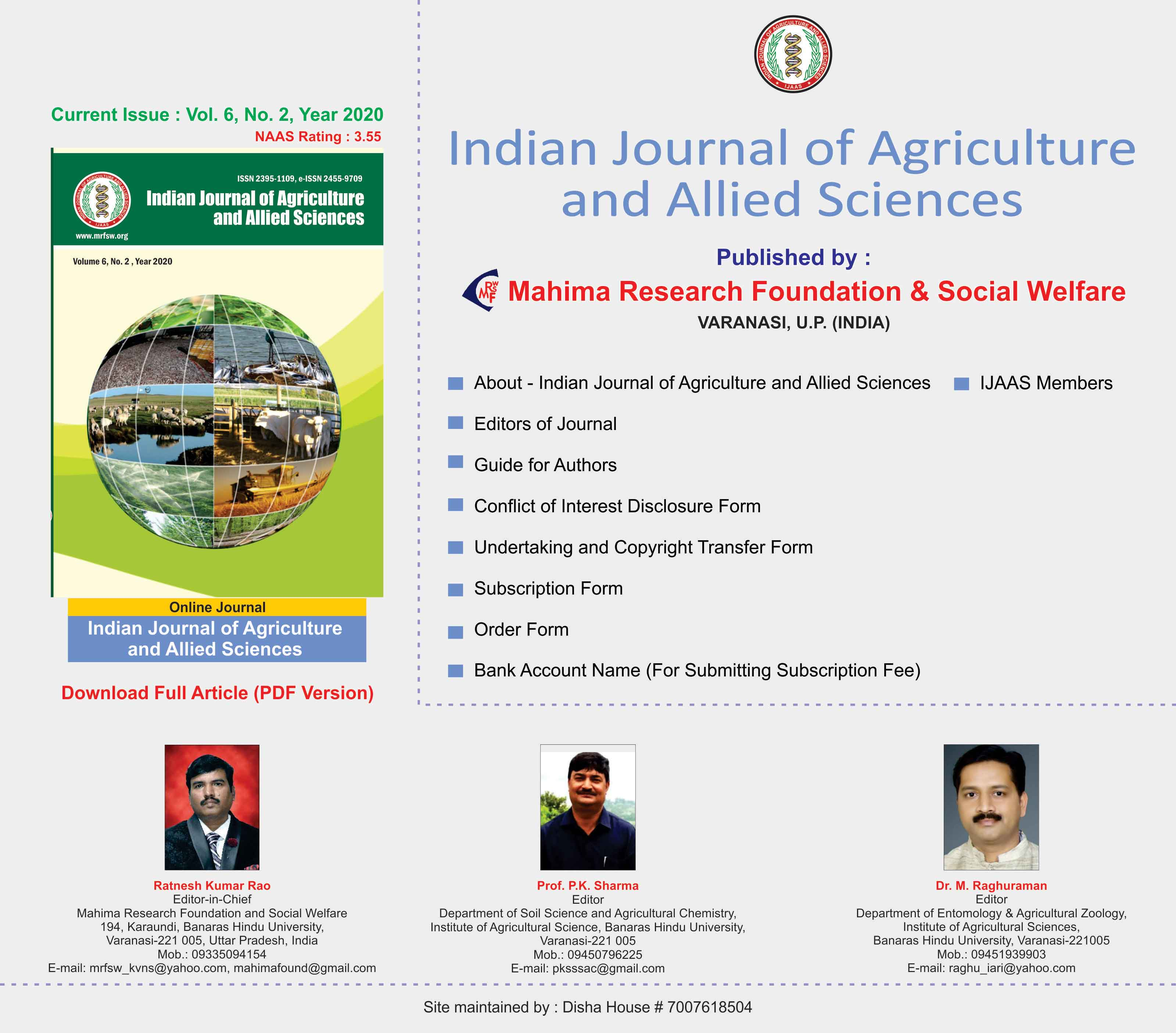
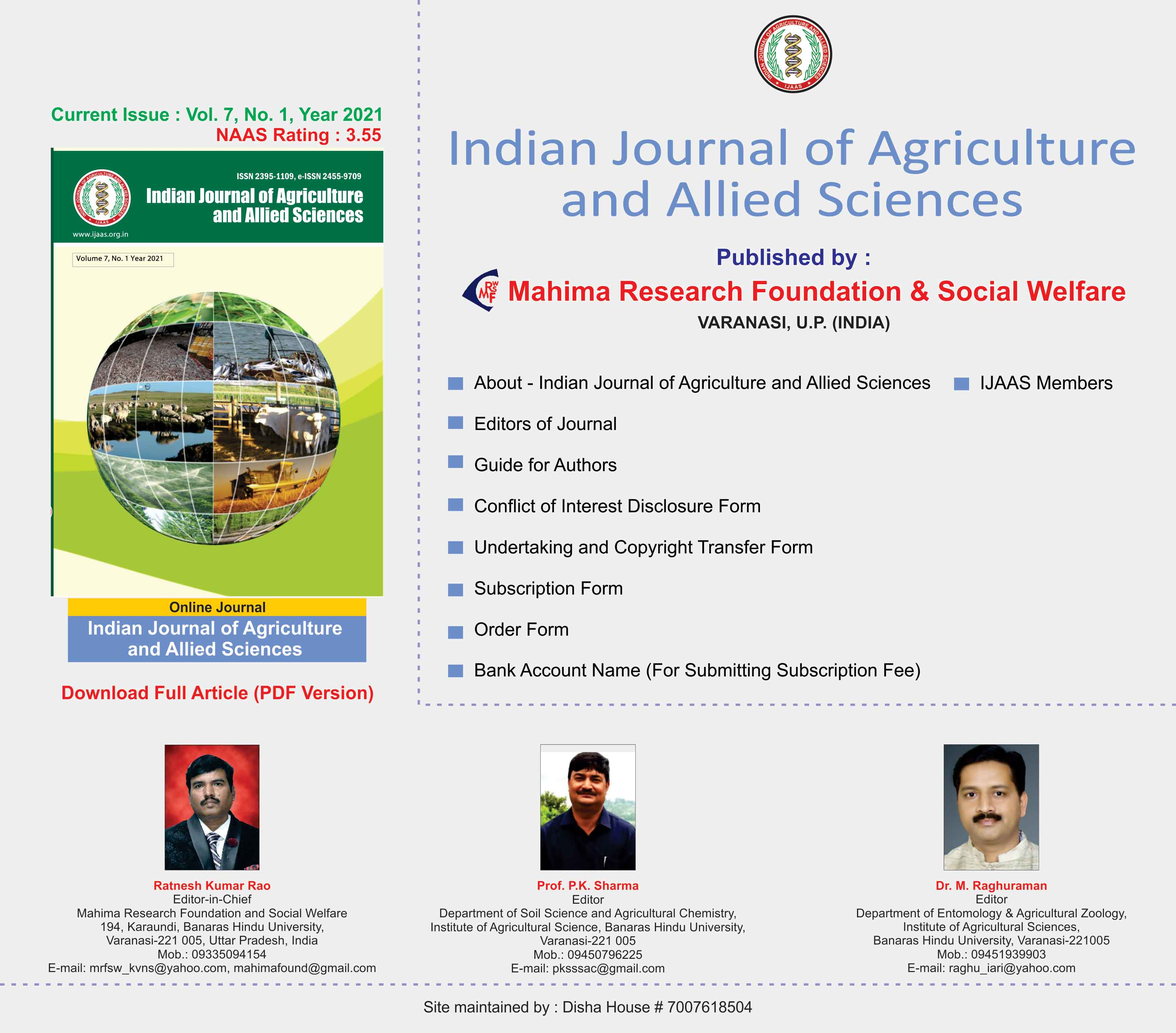
Add files via upload

Changed region(s): [[0.0312, 0.0928, 0.3438, 0.5876], [0.3125, 0.3402, 0.3438, 0.3711]]

diff --git a/editors of journal.html b/editors of journal.html
@@ -15,63 +15,57 @@
     <td style="text-align: center"><div id="Accordion1">
       <h3><a href="#"><strong>Editor-in-Chief</strong></a></h3>
       <div>
-        <p align="justify"><strong>Ratnesh Kumar Rao</strong>, 194, Karaundi, Banaras Hindu University, Varanasi-221005, UP, India, E-mail : mrfsw_kvns@yahoo.com</p>
+        <h3 align="justify" >Ratnesh Kumar Rao, 194, Karaundi, Banaras Hindu University, Varanasi-221 005, Uttar Pradesh, India, E-mail: mrfsw_kvns@yahoo.com, mahimafound@gmail.com, Website: www.mrfsw.org</h3>
       </div>
       <h3><a href="#"><strong>Editors</strong></a></h3>
       <div>
-        <p align="justify"><strong>Dr. P.K. Sharma</strong>, Department of Soil Sc. & Agricultural  Chemistry, Institute of Agricultural Sciences., BHU., Varanasi-221005, E-mail : pksssac@gmail.com</p>
-        <p align="justify"><strong>Dr. M. Raghuraman</strong>, Department of Entomology & Agricultural Zoology, Institute of Agricultural Sciences, BHU, Varanasi, E-mail :raghu_iari@yahoo.com </p>
+        <p align="justify"><strong>Dr. P.K. Sharma</strong>, Department of Soil Sc. & Agricultural Chemistry, Institute of Agricultural Sciences., BHU., Varanasi-221005, E-mail : pksssac@gmail.com</p>
+        <p align="justify"> <strong>Dr. M. Raghuraman</strong>, Department of Entomology & Agricultural Zoology, Institute of Agricultural Sciences, BHU, Varanasi, E-mail:raghu_iari@yahoo.com </p>
       </div>
       <h3><a href="#"><strong>Associate Editors</strong></a></h3>
       <div>
-        <p align="justify"><strong>Prof. P.Dwivedi</strong>, Department of Plant Physiology, Institute of Agricultural Sciences, Banaras Hindu University, Varanasi, India </p>
-        <p align="justify"><strong>Prof. Ram Mandir Singh</strong>, Department of Farm Engineering, Institute of Agricultural Sciences, Banaras Hindu University, Varanasi, India </p>
-        <p align="justify"><strong>Prof. J.S. Tripathi</strong>, Department of Kayachikitsa, Faculty of Ayurveda, Institute of Medical Sciences, Banaras Hindu University, Varanasi, India </p>
-        <p align="justify"><strong>Prof. K.R.C. Reddy</strong>, Department of Rasa Shastra, Faculty of Ayurveda, Institute of Medical Sciences, Banaras Hindu University, Varanasi, India </p>
-        <p align="justify"><strong>Dr. Y.V. Singh</strong>, Department of Soil Science and Agricultural Chemistry, Institute of Agricultural Sciences, Banaras Hindu University, Varanasi, India </p>
-        <p align="justify"><strong>Dr. V. Kamalvanshi</strong>, Department of Agricultural Economics, Institute of Agricultural Sciences, Banaras Hindu University, Varanasi, India </p>
-        <p align="justify"><strong>Dr. Ram Keval</strong>, Department of Entomology &amp; Agricultural Zoology, Institute of Agricultural Sciences, Banaras Hindu University, Varanasi, India </p>
-        <p align="justify"><strong>Dr. B.K. Sharma</strong>, Department of Plant Pathology and Mycology, Institute of Agricultural Sciences, Banaras Hindu University, Varanasi, India </p>
-        <p align="justify"><strong>Dr. Alok Kumar</strong>, Department of Department of Soil Science, NDUA&amp;T, Kumarganj,  Faizabad</p>
-        <p align="justify"><strong>Dr. B.P. Dhyani</strong>, Department of Soil Science, SVBUA&amp;T, Modipuram, Meerut</p>
-        <p align="justify"><strong>Prof. V.K. Rao</strong>, Department of Horticulture, GBPUABT, Pantnagar
-          
-          </p>
-        <p align="justify"><strong>Dr. P.K. Singh</strong>, Nagaland University, Mezhiphera campus, Nagaland          </p>
-        <p align="justify"><strong>Dr. A.K. Dwivedi</strong>, Department of Shalya Tantra, Faculty of Ayurveda, Institute of Medical Sciences, Banaras Hindu University, Varanasi, India </p>
-        <p align="justify"><strong>Dr. Sunita Suman</strong>, Department of Prasuti Tantra, Faculty of Ayurveda, Institute of Medical Sciences, Banaras Hindu University, Varanasi, India </p>
-        <p align="justify"><strong>Dr. Parameswarappa S. Byadgi</strong>, Department of Vikriti Vigyan, Faculty of Ayurveda, Institute of Medical Sciences, Banaras Hindu University Varanasi, India, E-mail : psbyadgi@rediffmail.com </p>
-        <p align="justify"><strong>Dr. N.S. Tripathi</strong>, Department of Kriya Sharir, Faculty of Ayurveda, Institute of Medical Sciences, Banaras Hindu University, Varanasi, India, E-mail : drnstripathi@yahoo.co.in </p>
-        <p align="left"><strong>Dr. Arun A. David</strong>, Associate  Professor, Department of Soil Science, Allahabad School of Agriculture, SHIATS-DU, Allahabad  211 007, (U.P.), India.</p>
-        <p align="justify"><strong>Dr. S.N. Singh, </strong>KVK,  Institute of Agricultural Sciences, Barkaccha, BHU,  Mirzapur-231001, Cell : 09453791916, E-mail : snsingh.agro@gmail.com</p>
-        <p align="justify"><strong>Prof. Shriram Singh, </strong>Programme  Co-ordinator, KVK, Institute   of Agricultural Sciences, Barkaccha, BHU, Mirzapur-231001, Cell : 09450232889,  E-mail : srsinghkvk@rediffmail.com </p>
-        <p align="justify"><strong>Dr. Neeraj Kumar</strong>, Department of Soil  Science, N.D.U.A. &amp; T., Kumarganj, Faizabad</p>
-        <p align="justify"> <strong>Dr. Shivram Singh</strong>, Principal Scientist,  Indian Institute of Sugarcane Research, Lucknow</p>
-        <p align="justify"> <strong>Dr. Ramesh Singh</strong>, Department of Plant  Pathology, T.D. College, Jaunpur</p>
-        <p align="justify"> <strong>Dr. J.K. Singh</strong>, Department of Agronomy,  Institute of Agricultural Sciences, B.H.U., Varanasi</p>
-        <p align="justify"> <strong>Dr. Anil Kumar Singh</strong>, Department of Agronomy,  T.D.P.G.  College, Jaunpur</p>
-        <p align="justify"> <strong>Dr. Sanjay K. Shahi,</strong> Department of Agricultural Chemistry and Soil Science, Udai Pratap   Autonomous College,  Varanasi-221 002, E-mail:  ssssupc@gmail.com</p>
-        <p align="justify"><strong>Dr. Manoj Kumar Singh, </strong>Scientist (Horticulture), KVK Pampoli East  Kameng, Arunachal Pradesh</p>
-        <p align="justify"><strong>Dr. Vivek Pandey, </strong>Assistant  Vegetable Breeder, Punjab Agriculture University,  Regional Research Station Gurdaspur, Punjab  143521</p>
-        <p align="justify"><strong>Dr. Jiban Shrestha, </strong>Scientist (Plant  Breeding &amp; Genetics),<strong></strong>Nepal  Agricultural Research Council, National Maize Research Program, Rampur, Chitwan,   Nepal,  Phone:+9779808037472, Email: jibshrestha@gmail.com,jibshrestha@yahoo.com</p>
-        <p align="justify"><strong>Dr. Sanjeev Kumar</strong>, Department of Dravyaguna, Faculty of Ayurveda, Institute of Medical  Sciences, Banaras Hindu University,  Varanasi </p>
-        <p align="justify"><strong>Akhouri Nishant  Bhanu, </strong>DST INSPIRE Research Fellow, Department of Genetics and Plant  Breeding, Institute of Agricultural Sciences, Banaras  Hindu University,  Varanasi, U.P., India, Mob.: 09415302653, E-mail: nishant.bhanu@gmail.com</p>
-        <p align="justify"><strong>Dr. Vijay Kumar, </strong><span lang="EN-IN">Assistant Professor/Junior scientist, Rainfed Research Sub- station for Sub-tropical fruits- Raya, Sher-e-Kashmir University of Agricultural Sciences and Technology of Jammu, </span>Mobile: +918803289323 (M), <em>E-mail</em>: vijaykumar.1144@Yahoo.in, <a href="mailto:vijaysoil.1144@gmail.com" target="_blank">vijaysoil.1144@gmail.com</a></p>
-        <p align="justify"><strong>Dr. Anil Kumar,</strong> High Mountain Arid Agriculture research Institute, SKUAST-K, Leh-194101, E-mail: <a href="mailto:akkakori@gmail.com" target="_blank">akkakori@gmail.com</a></p>
+        <p align="justify"><strong>Prof. K. Srivastava</strong>, Department of Genetics and Plant Breading, Institute of Agricultural Sciences, Banaras Hindu University, Varanasi, India          </p>
+        <p align="justify"><strong>Prof. P.Dwivedi</strong>, Department of Plant Physiology, Institute of Agricultural Sciences, Banaras Hindu University, Varanasi, India</p>
+        <p align="justify"> <strong>Prof. Ram Mandir Singh</strong>, Department of Farm Engineering, Institute of Agricultural Sciences, Banaras Hindu University, Varanasi, India</p>
+        <p align="justify"> <strong>Prof. R.K. Patra</strong>, Department of Soil Science, OUA&T, Bhubaneshwar</p>
+        <p align="justify"> <strong >Prof. J.S. Tripathi</strong>, Department of Kayachikitsa, Faculty of Ayurveda, Institute of Medical Sciences, Banaras Hindu University, Varanasi, India</p>
+        <p align="justify"> <strong >Prof. Anil Kumar Shukla</strong>, Head, Dravyaguna Vigyan, Mansarovar Ayurved Medical College, Hospital & Research Center, Mansarovar Campus, Village-Hinotia Alaam, Kolar Road, Bhopal-462042, M.P., India. Tel: [+91] 755-2879445, Mob.: 9820-988 729, E-mail: dranilshukla@gmail.com<u> </u></p>
+        <p align="justify"><strong>Prof. K.R.C. Reddy</strong>, Department of Rasa Shastra, Faculty of Ayurveda, Institute of Medical Sciences, Banaras Hindu University, Varanasi, India</p>
+        <p align="justify"> <strong>Dr. Raghvendra Singh</strong>, Sr. Scientist (Agronomy), ICAR Research Complex for NEH Region, Sikkim Centre, Tadong, Gangtok-737102, Mob. : 91-9475582991</p>
+        <p align="justify"> <strong>Dr. V.K. Paswan</strong>, Department of Animal Husbandry and Dairying, Institute of Agricultural Sciences, Banaras Hindu University, Varanasi, India</p>
+        <p align="justify"> <strong>Dr. Ram Keval</strong>, Department of Entomology, Institute of Agricultural Sciences, Banaras Hindu University, Varanasi, India</p>
+        <p align="justify"> <strong>Dr. B.K. Sharma</strong>, Department of Plant Pathology and Mycology, Institute of Agricultural Sciences, Banaras Hindu University, Varanasi, India</p>
+        <p align="justify"> <strong>Dr. Alok Kumar</strong>, Department of Soil Science, NDUA&T, Kumarganj, Faizabad</p>
+        <p align="justify"> <strong >Dr. B.P. Dhyani</strong>, Department of Soil Science, SVBUA&T, Modipuram, Meerut</p>
+        <p align="justify"> <strong>Prof. V.K. Rao</strong>, Department of Horticulture, GBPUABT, Pantnagar</p>
+        <p align="justify"> <strong >Dr. A.K. Sachan</strong>, Department of Soil Science & CS, CSAUA&T, Kanpur</p>
+        <p align="justify"> <strong>Dr. P.K. Singh</strong>, Nagaland University, Mezhiphera campus, Nagaland</p>
+        <p align="justify"> <strong >Dr. Santhan Barthwal</strong>, &ldquo;Scientist F&rdquo;, IIRI, Dehradun, Uttarakhand</p>
+        <p align="justify"> <strong>Dr. A.K. Dwivedi</strong>, Department of Shalya Tantra, Faculty of Ayurveda, IMS, BHU, Varanasi, India</p>
+        <p align="justify"> <strong>Dr. Sunita Suman</strong>, Department of Prasuti Tantra, Faculty of Ayurveda, Institute of Medical Sciences, Banaras Hindu University, Varanasi, India</p>
+        <p align="justify"> <strong>Dr. Parameswarappa S. Byadgi</strong>, Department of Vikriti Vigyan, Faculty of Ayurveda, Institute of Medical Sciences, Banaras Hindu University Varanasi, India, E-mail : psbyadgi@rediffmail.com</p>
+        <p align="justify"> <strong>Dr. N.S. Tripathi</strong>, Department of Kriya Sharir, Faculty of Ayurveda, Institute of Medical Sciences, Banaras Hindu University, Varanasi, India, E-mail : drnstripathi@yahoo.co.in</p>
+        <p align="justify"> <strong>Dr. Arun A. David</strong>, Associate Professor, Department of Soil Science, Allahabad School of Agriculture, SHIATS-DU, Allahabad 211 007, (U.P.), India.</p>
+        <p align="justify"> <strong>Prof. Shriram Singh, </strong>Programme Co-ordinator, KVK, Institute of Agricultural Sciences, Barkaccha, Banaras Hindu University, Mirzapur, Cell: 09450232889, E-mail: srsinghkvk@rediffmail.com</p>
+        <p align="justify"> <strong >Dr. Sanjay K. Shahi</strong>, Department of Agricultural Chemistry and Soil Science, Udai Pratap Autonomous College, Varanasi-221 002, E-mail: ssssupc@gmail.com</p>
+        <p align="justify"><strong>Dr. Manoj Kumar Singh</strong>, Scientist (Horticulture), KVK Pampoli East Kameng, Arunachal Pradesh</p>
+        <p align="justify"> <strong>Dr. Jiban Shrestha, </strong>Scientist (Plant Breeding & Genetics),<strong></strong>Nepal Agricultural Research Council, National Maize Research Program, Rampur, Chitwan, Nepal, Phone:+9779808037472, Email: jibshrestha@gmail.com,jibshrestha@yahoo.com</p>
+        <p align="justify"> <strong >Akhouri Nishant Bhanu, </strong>DST INSPIRE Research Fellow, Department of Genetics and Plant Breeding, Institute of Agricultural Sciences, Banaras Hindu University, Varanasi, U.P., India, Mob.: 09415302653, E-mail: nishant.bhanu@gmail.com</p>
+        <p align="justify"> <strong >Dr. Vijay Kumar, Assistant Professor/Junior scientist, </strong>Rainfed Research Sub- station for Sub-tropical fruits- Raya Sher-e-Kashmir University of Agricultural Sciences and Technology of Jammu, Mob:+918803289323, E-mail: vijaykumar.1144@Yahoo.in, vijaysoil.1144@gmail.com</p>
+        <p align="justify"> <strong >Dr. Anil Kumar,</strong> High Mountain Arid Agriculture research Institute, SKUAST-K, Leh-194101, E-mail: akkakori@gmail.com</p>
+        <p align="justify"> <strong >Dr. N.D. Singh</strong>, Senior scientist and Head (Horticulture), KVK, West Kameng  Dirang, Arunachal Pradesh, E-mail: ndsingh62kvk@gmail.com.</p>
+        <p align="justify"> <strong >Dr. Gouri Shankar Giri</strong>, Department of Entomology, Tirhut College of Agriculture, Dholi, Muzaffarpur, DRPCAU, Pusa, Samastipur, E-mail: <a href="mailto:riinnku.24@gmail.com" ><u>riinnku.24@gmail.com</u></a></p>
       </div>
       <h3 align="center"><a href="#"><strong>Guest Editors</strong></a></h3>
       <div>
         <p align="justify"><strong>Prof. Bharat B. Aggarwal</strong>, Ransom Horne, Jr., Professor of Cancer Research, Professor of Cancer Medicine (Biochemistry) and Chief, Cytokine Research Laboratory, Department of Experimental Therapeutics, The University of Texas M. D. Anderson Cancer Center, 1901 East Road, Unit 1950, Houston, TX 77054, USA, Phone: 713-794-1817, Email: aggarwal@mdanderson.org</p>
-        <p align="justify"><strong>Prof. A. Hemantaranjan, </strong><em>Formerly Head, </em>FISPP,  Department of Plant Physiology, Institute of Agricultural Sciences, Banaras  Hindu University,<strong> </strong>Varanasi 221 005,  INDIA, E-mail: hemantaranjan@gmail.com ;   Phone: 91-542-6702939 (O); 91-542-2575362 (R); Mobile No. +9415302653</p>
-        <p align="justify"><strong>Prof. G. C. Mishra,</strong> Department of Farm Engineering, IAS, BHU, Varanasi</p>
-        <p align="justify"><strong>Dr. Prashant Srivastava</strong>, Demonstration Programme Coordinator, CRC Care Pty Ltd., CRC for Contamination Assessment & Remediation of the Environment, Buiklding X (Environmental Sciences Building), University of South Australia, Mawson Lakes, SA 5095, Australia          </p>
-        <p align="justify"><strong>Dr. R.S. Jaywardhane</strong>, Institute of Indigenous Medicine, University of Colombo, Rajagiriya, Sri Lanka </p>
-        <p align="justify"><strong>Dr. Hem Kanti Kultunga</strong>, Institute of Indigenous Medicine, University of Colombo, Rajagiriya, Sri Lanka          </p>
-        <p align="justify"><strong>Dr. R.R. Koirala</strong>, Consultant Ayurveda and Yoga Physician. Nepal Ayurveda Society, Tilingtar, Dhapasi-7, Kathmandu, E-mail: ayurveda@wlink.com.np </p>
-        <p align="justify"><strong>Dr. A.A. J. Pushpakumara</strong>, B.A.M.S(Hons), M.S(Ay) India B.H.U,PGDHD  (faculty Medicine Colombo), PhD(Scholar), Department of Microbiology, Senior  lecturer/consultant surgeon, Head of the Department Shalya Shalakya, Gampaha  Wickramarachchi Ayurveda Institute, University of kelaniya, Sri Lanka, E-mail :  mrsnhkumara@gmail.com</p>
-        <p align="justify"><strong>Dr. Simone Hunziker, </strong>President,  Verband Schweizer Ayurveda-Mediziner und-Therapeuten, 3000 Bern, Tel : +41(0)  32-313-02, asmta@ayurveda-verband.eu,<br>
-          simone.hunziker@ayurveda-verband.eu</p>
-        <p align="justify"><strong>Dr. Ajai Kumar Pandey,</strong> Department of Kayachikitsa, Faculty of Ayurveda, IMS, BHU, Varanasi</p>
+        <p align="justify"> <strong>Prof. G.C. Mishra, </strong>Department of Farm Engineering,<strong> </strong>Institute of Agricultural Sciences, Banaras Hindu University, Varanasi</p>
+        <p align="justify"> <strong >Dr. R.S. Jaywardhane</strong>, Institute of Indigenous Medicine, Univ. of Colombo, Rajagiriya, Sri Lanka</p>
+        <p align="justify"> <strong>Dr. Hem Kanti Kultunga</strong>, Institute of Indigenous Medicine, University of Colombo, Rajagiriya, Sri Lanka</p>
+        <p align="justify"> <strong >Dr. R.R. Koirala</strong>, Consultant Ayurveda and Yoga Physician. Nepal Ayurveda Society, Tilingtar, Dhapasi-7, Kathmandu, E-mail: ayurveda@wlink.com.np</p>
+        <p align="justify"> <strong>Dr. A.A. J. Pushpakumara</strong>, B.A.M.S(Hons), M.S(Ay) India B.H.U,PGDHD (faculty Medicine Colombo), PhD(Scholar), Department of Microbiology, Senior lecturer/consultant surgeon, Head of the Department Shalya Shalakya, Gampaha Wickramarachchi Ayurveda Institute, University of kelaniya, Sri Lanka, E-mail : mrsnhkumara@gmail.com</p>
+        <p align="justify"> <strong>Dr. Simone Hunziker, </strong>President, Verband Schweizer Ayurveda-Mediziner und-Therapeuten, 3000 Bern, Tel: +41(0) 32-313-02, asmta@ayurveda-verband.eu, simone.hunziker@ayurveda-verband.eu</p>
+        <p align="justify"> <strong >Dr. Ajai Kumar Pandey</strong>, Department of Kayachikitsa, Faculty of Ayurveda, IMS, BHU, Varanasi </p>
       </div>
     </div></td>
   </tr>

diff --git a/journal download.html b/journal download.html
@@ -1404,6 +1404,131 @@ Dhirendra Kumar Singh and Prudhvi Raj Vennela</em></strong> </a></p>
         </div>
         
         <!-------- end here --------->
+        
+        
+        
+          <!-------vol 6 no. 3 2020----->
+        
+        <h3><a href="#"><strong>Indian Journal of Agriculture and Allied Sciences - Vol. 6, No. 3, Year 2020</strong></a></h3>
+        <div>
+          <blockquote>
+            <p><a href="https://drive.google.com/file/d/1V0y4cizFXAHhZM-aFpHsdD2-mLAjWFyq/view?usp=sharing">Inner Pages</a></a></p>
+            <p><a href="https://drive.google.com/file/d/1gicmLG6HCnx8XJlfKxSqqd7Ck8wNyK7j/view?usp=sharing">Content</a></p>
+            <p><a href="https://drive.google.com/file/d/1vcKsdczpmU_XboyZZ93WXrQAmD8niTFS/view?usp=sharing">Estimation of Milk Yield in Different Socio-Economic Classes in Ayodhya District of Eastern Uttar Pradesh</a><br>
+              Bhim Singh and Amar Singh</p>
+            <p><a href="https://drive.google.com/file/d/18n6WrPadS46CUaVylr1D_cRHwA75x7dy/view?usp=sharing">Mulberry Breeding</a><br>
+              Shikha Jain, Kiran Kothiyal, Himani Rawat, Bhargav Kiran and <br>
+              Subhashree Subhasmita</p>
+            <p><a href="https://drive.google.com/file/d/1NHRzSr5t5TuAVjx29Bh5J0ckAKEu4esD/view?usp=sharing">How to Lead Our Farming by Overcoming the Climate Crisis?</a><br>
+              Sudip Sarkar</p>
+            <p><a href="https://drive.google.com/file/d/1ZfZVTUR2V4DOXdn3rtZo-1E6lTdtMesc/view?usp=sharing">Off Season Induction of Flowering and Fruit Production in Tropical &amp; Sub-Tropical Fruit Trees</a><br>
+              Kiran Kothiyal, Shikha Jain, Himani Rawat, Bhargav Kiran and <br>
+              Subhashree Subhasmita</p>
+            <p><a href="https://drive.google.com/file/d/1iOYUIiELohf3YL5_tkATk881SCAxotoe/view?usp=sharing">Honey Bee as Weapon of War: A Review</a><br>
+              Gouri Shankar Giri, Kalpana Bisht, Neeraj Kumar and Rabindra Prasad</p>
+            <p><a href="https://drive.google.com/file/d/1dfQb8TX6Uhl1tL6gLf6K8aeOwpIbIW_4/view?usp=sharing">A Review: Climate Change and its Impact on Agriculture </a><br>
+              Kanhaiya Lal, Manish Raj and Sanju Kumari </p>
+            <p><a href="https://drive.google.com/file/d/13KgkuaQUS2ZkNOpR6YRNL8qTnu_eME6E/view?usp=sharing">Gap in Adoption of Improved Production Technologies of the Field Crops by the Farmers of Rehli Block of Bundelkhand Region</a><br>
+              Vikas Gupta, R.K. Saraf, S.K. Mishra, Vivekin Pachauri and Smita Puri </p>
+            <p><a href="https://drive.google.com/file/d/1lhD0fJP5lRDr5RX5wpgaFQjdsmEZohyU/view?usp=sharing">Response of Tomato Crop to Organic Vis-a-Vis Inorganic Nutrient Management</a><br>
+              Parth</p>
+            <p><a href="https://drive.google.com/file/d/1DaHpgZfVhwH-G6kM4OkZ8wDdzdpMxqCB/view?usp=sharing">Analysing Effect of Soil and Foliar Application of Silicon on Soil Nutrient Availability, Uptake and Disease and <br>
+              Pest Incidence on Kharif Onion (Allium cepa L.)</a><br>
+              Rupali V. Bhangare and Sharad S. Shinde</p>
+            <p><a href="https://drive.google.com/file/d/1R2XTKF2IBmOjtWU68IZwohCDrF_iPw_R/view?usp=sharing">Effect of Organic Amendment of Soil on Various Morphological Parameters of Broad Bean (Vicia faba L.)</a><br>
+              Nimmi Kumari</p>
+            <p><a href="https://drive.google.com/file/d/1I2eTaFGyJh053rM1GQlS5vRDq18QJaB5/view?usp=sharing">Preparation of Squash from Papaya (Carica papaya L.)  and Aloe Vera (Aloe barbadensis Miller.) Pulp</a><br>
+              Priynka Kumari, Rashmi Singh, Awadhesh Kumar, Rajeev Kumar and Anil Kumar</p>
+            <p><a href="https://drive.google.com/file/d/1pFEFmz2W8W-3GN0RT_szDvKttk2Vh72k/view?usp=sharing">Mycofloral Growth due to Various Relative Humidity on Some Medicinal Plant Parts During Storage</a><br>
+              Ritikumari and B.K. Dayal</p>
+            <p><a href="https://drive.google.com/file/d/1c3BzEwHWtjNhTb4LqWISaVaOUcR7BFnS/view?usp=sharing">Correlation and Path Coefficient Analysis in Okra: A Review</a><br>
+              Navdeep Mhatre, Prashant B. Kardile and S.V. Kalyankar</p>
+            <p><br>
+              <a href="https://drive.google.com/file/d/1b7NSq_4CPvhJj2kPG2yHh5vWAVDxP59w/view?usp=sharing">A Review on Impact of High Temperature Stress on Biochemical Parameters of Wheat (Triticum aestivum L.) Crop</a><br>
+              Prashant B. Kardile, D.G. Dalvi and S.V. Kalyankar</p>
+            <p><a href="https://drive.google.com/file/d/15yszCyflH1kHD1nAz9QVpvI6x66czY6u/view?usp=sharing">Effect of Different Sowing Dates on Morphological Characters of Wheat (Triticumaestivum L.)  Crop: A Review</a><br>
+              D.G. Dalvi, Prashant B. Kardile and A.H. Rathod</p>
+            <p><a href="https://drive.google.com/file/d/1hap4XVaLPcJjW6knxlcTPZXsijpTXyU2/view?usp=sharing">Review on Effect of Packaging and Cushioning Material on Changes in Physical Characteristics of Alphonso Mango Fruits during Storage</a><br>
+              K.N. Dahatonde, Prashant B. Kardile and Pradip B. Kakade</p>
+            <p><a href="https://drive.google.com/file/d/1AB00ubAkV7J4Xix6BVOE2WkqHKe_gKD4/view?usp=sharing">Effect of Bio-Control Agents on Morphological and Biochemical Characters of Cowpea (Vigna unguiculata L.): A Review</a><br>
+              Mahesh V. Ugale, Prashant B. Kardile and K.N. Dahatonde</p>
+            <p><a href="https://drive.google.com/file/d/18jVr9mi8Nn5tcZoF-HHW7e_8P9nzLg93/view?usp=sharing">Effect of Climate Change on Vegetable Production</a><br>
+              Shivam Sharma and D.R Chaudhary</p>
+            <p><a href="https://drive.google.com/file/d/1Rixtie4bYEczQz4ufz7FhYPzlcIwvDB_/view?usp=sharing">Pest Management in Fruits Crops</a><br>
+              R.S. Meena and Ratnesh Kumar Rao</p>
+            <p><a href="https://drive.google.com/file/d/10xTXr4hzz2MSj09YUdmVhZvhhAeFlrEe/view?usp=sharing">Utilizing Propolis Components in the Development of Novel Therapeutics for Covid-19: A Review</a><br>
+              Kalpana Bisht and Gouri Shankar Giri</p>
+            <p><a href="https://drive.google.com/file/d/1bdQS9R04TRLhGFavH9JDvOWMRyL6ZINp/view?usp=sharing">Agricultural Waste Production and its Management</a><br>
+              J. Garg, K. Singh, J. Sangwan, K. Srinivasulu, B. Sai Kiran and S. Lalotra </p>
+            <p><a href="https://drive.google.com/file/d/1Ta3qbc9jBlP3ElcjSJCz4YK-XZjzGcKy/view?usp=sharing">Holistic Approach of Ayurveda in Metabolic Syndrome</a><br>
+              Vimla Kumari Bishnoi, Kamini Kaushal, Ashwini K. Sharma, <br>
+              Rajesh Chandra Mishra, Pradeep Soni and Ramendra Sharma</p>
+            <p><a href="https://drive.google.com/file/d/1c-pgiqW7qMNqrrhhL1kaMV9l5QI7IYgu/view?usp=sharing">Guide for Authors</a></p>
+          </blockquote>
+        </div>
+        
+        <!-------- end here --------->
+        
+        <!-------vol 6 no. 4 2020----->
+        
+        <h3><a href="#"><strong>Indian Journal of Agriculture and Allied Sciences - Vol. 6, No. 4, Year 2020</strong></a></h3>
+        <div>
+          <blockquote>
+            <p>Under Construction</p>
+           
+          </blockquote>
+        </div>
+        
+        <!-------- end here --------->
+        
+         <!-------vol 7 no. 1 2021----->
+        
+        <h3><a href="#"><strong>Indian Journal of Agriculture and Allied Sciences - Vol. 7, No. 1, Year 2021</strong></a></h3>
+        <div>
+          <blockquote>
+            <p><a href="https://drive.google.com/file/d/13aUsgIoeKPUWfblS6MobI5mOClbNGkYY/view?usp=sharing">Inner Pages</a></p>
+            <p><a href="https://drive.google.com/file/d/1_NI3g6CV_vLTjimOmb8TOWawzebwXq1_/view?usp=sharing">Content</a></p>
+            <p><a href="https://drive.google.com/file/d/1kAT-zmm8TCeaB50vC-Uib4nAHQpGGNNO/view?usp=sharing">Concept of Gene Pool in Eggplant with Essence of Grafting to Interdict Diseases </a><br>
+              Neha Kumari Mandal, Subhashree Subhasmita and Shikha Jain</p>
+            <p><a href="https://drive.google.com/file/d/1PXrAlKi9hXBE1YVAQ8zZ0zlhFxyUY_Dd/view?usp=sharing">Field Efficacy of Cypermethrin 10 EC Against Bihar Hairy Caterpillar, Spilosoma obliqua (Walker) Infesting Sunflower</a><br>
+              Sarwan Kumar and Rakesh Kumar Sharma</p>
+            <p><a href="https://drive.google.com/file/d/157dqHtCfLOVb8aW7kZ_4uhKIZoLH4ADm/view?usp=sharing">Effect of Integrated Nutrient Management (INM) of Growth, Flowering and Yield on African Marigold (Tagetes Erecta L.): A Review </a><br>
+              Rajmani Singh, M. L. Meena, Som Prakash, Shree Kant Maurya and Pan Singh </p>
+            <p><a href="https://drive.google.com/file/d/1LCjKuP2TWjCAEDYSzrVnPy3CVM2tmNrh/view?usp=sharing">Direct Seeded Rice: Prospects, Constrains and Future Perspective in India</a><br>
+              Manish Raj, Kanhaiya Lal and Rahul Kumar</p>
+            <p><a href="https://drive.google.com/file/d/1Fm3WpzM8QT2BmiBY5UmcDkiD6hbKMMcR/view?usp=sharing">Extension and Advisory Services in Times of Covid-19: The Endeavour of KVK-Leh</a><br>
+              Parveen Kumar, Kunzang Lamo, F. D. Sheikh and Sonam Angchuk</p>
+            <p><a href="https://drive.google.com/file/d/1uTXPJ7hq1ujga4crnDXgV_PNq0CnWOvC/view?usp=sharing">Development of Food Products by Using Capsicum chinense Jacq. (King Chilli)</a><br>
+              Kh. P. Devi, N. Ronya and D. Sharma</p>
+            <p><a href="https://drive.google.com/file/d/1uw8URreCJRcsQ9twOShHqMwLxWz9o876/view?usp=sharing">A Review on Abiotic Stress in Tomato Crop</a><br>
+              Som Prakash, R. S. Verma, M. L. Meena, Rajmani Singh and Shree Kant Maurya</p>
+            <p><a href="https://drive.google.com/file/d/18h3x71pP6WCkgXiLpUuIdnMRWnwnOckE/view?usp=sharing">Mulching, an Alternate to Boost the Production of Indian Farmers during Pandemic</a><br>
+              Kamaldeep Singh and Rubina Gill</p>
+            <p><a href="https://drive.google.com/file/d/1StA4fsCPcGVpX4H85DxMh8mY36ddZWW-/view?usp=sharing">Correlation and Path Analysis in Garden Pea (Pisum sativum spp. Hortense L.)</a><br>
+              M.L. Meena, T.R. Pankaj, Sanjay Kumar, Rajmani Singh and Ruchika Abha </p>
+            <p><a href="https://drive.google.com/file/d/1WsoPcwSVEpvimLKicWL6SBh9UN0gth5x/view?usp=sharing">Influence of Long Term Application of Inorganic Fertilizer and Organic Manure on Soil Properties in a Vertisol</a><br>
+              Anil Nagwanshi, A.K. Dwivedi, B.S. Dwivedi and S.K. Dwivedi</p>
+            <p><a href="https://drive.google.com/file/d/1HaTFp2hUwWKzUlLVVNoz8QZWHKSHhFg9/view?usp=sharing">Improving Agricultural Sustainability by Using Climate Smart Practices</a><br>
+              Bhangare Rupali V. and Basant Kumar Dadarwal</p>
+            <p><a href="https://drive.google.com/file/d/1lHiYwx3uLe_xzTELY3X7OBPeZSvctJgw/view?usp=sharing">Present and Future Aspect of Dragon Fruits Cultivation</a><br>
+              Vandana Kumari and Rubina Gill</p>
+            <p><a href="https://drive.google.com/file/d/1hiATtcAszBytNvVa35dexiUcIOoTu4nV/view?usp=sharing">Effect of Plant Growth Regulators on Yield and Quality Parameters Brinjal in Chambal Division (M.P.)</a><br>
+              S.V.S. Chauhan, B.P.S. Raghubanshi, Y.P. Singh and B. S. Raghav</p>
+            <p><a href="https://drive.google.com/file/d/1preJxxbbycBwN39r1ftd2A-jZhqB48un/view?usp=sharing">Soil Carbon Mineralization in Different Land Use System Soils of Ballia District, Uttar Pradesh</a><br>
+              Deepika Maurya, Ashok Kumar Singh and Anil Kumar Singh</p>
+            <p><a href="https://drive.google.com/file/d/1JApm2XxqXvrX70S-7p7Wv74BtpTvIgKa/view?usp=sharing">Current Status of Protected Cultivation in Himachal Pradesh</a><br>
+              Shivam Sharma and D.R. Chaudhary</p>
+            <p><a href="https://drive.google.com/file/d/1hDS5eupAlf3bNtjVDmvspcoFN5m2Rdy8/view?usp=sharing">Nutrient Management for Improving Productivity for Sustainable Agriculture</a><br>
+              Ratnesh Kumar Rao and Rubina Gill</p>
+            <p><a href="https://drive.google.com/file/d/14MPXjxlmrWR0JnoGouCWrCpB6nmNRV1n/view?usp=sharing">Insects of Economic Importance in Global Scenario</a><br>
+              M. Raghuraman and Ratnesh Kumar Rao</p>
+            <p><a href="https://drive.google.com/file/d/1EVC7F6nTNk7l6jQUmeyLSJAorqdPfDRf/view?usp=sharing">Potato, More Consumption can Lead to Increase the Risk of Diabetes</a><br>
+              Rubina Gill and Bimolkishor Wahengbam</p>
+            <p><a href="https://drive.google.com/file/d/1fK0nMY6pYH7kzduZGde9tCfYELFcxMoC/view?usp=sharing">Guide for Authors</a></p>
+          </blockquote>
+        </div>
+        
+        <!-------- end here --------->
 
         
                 
